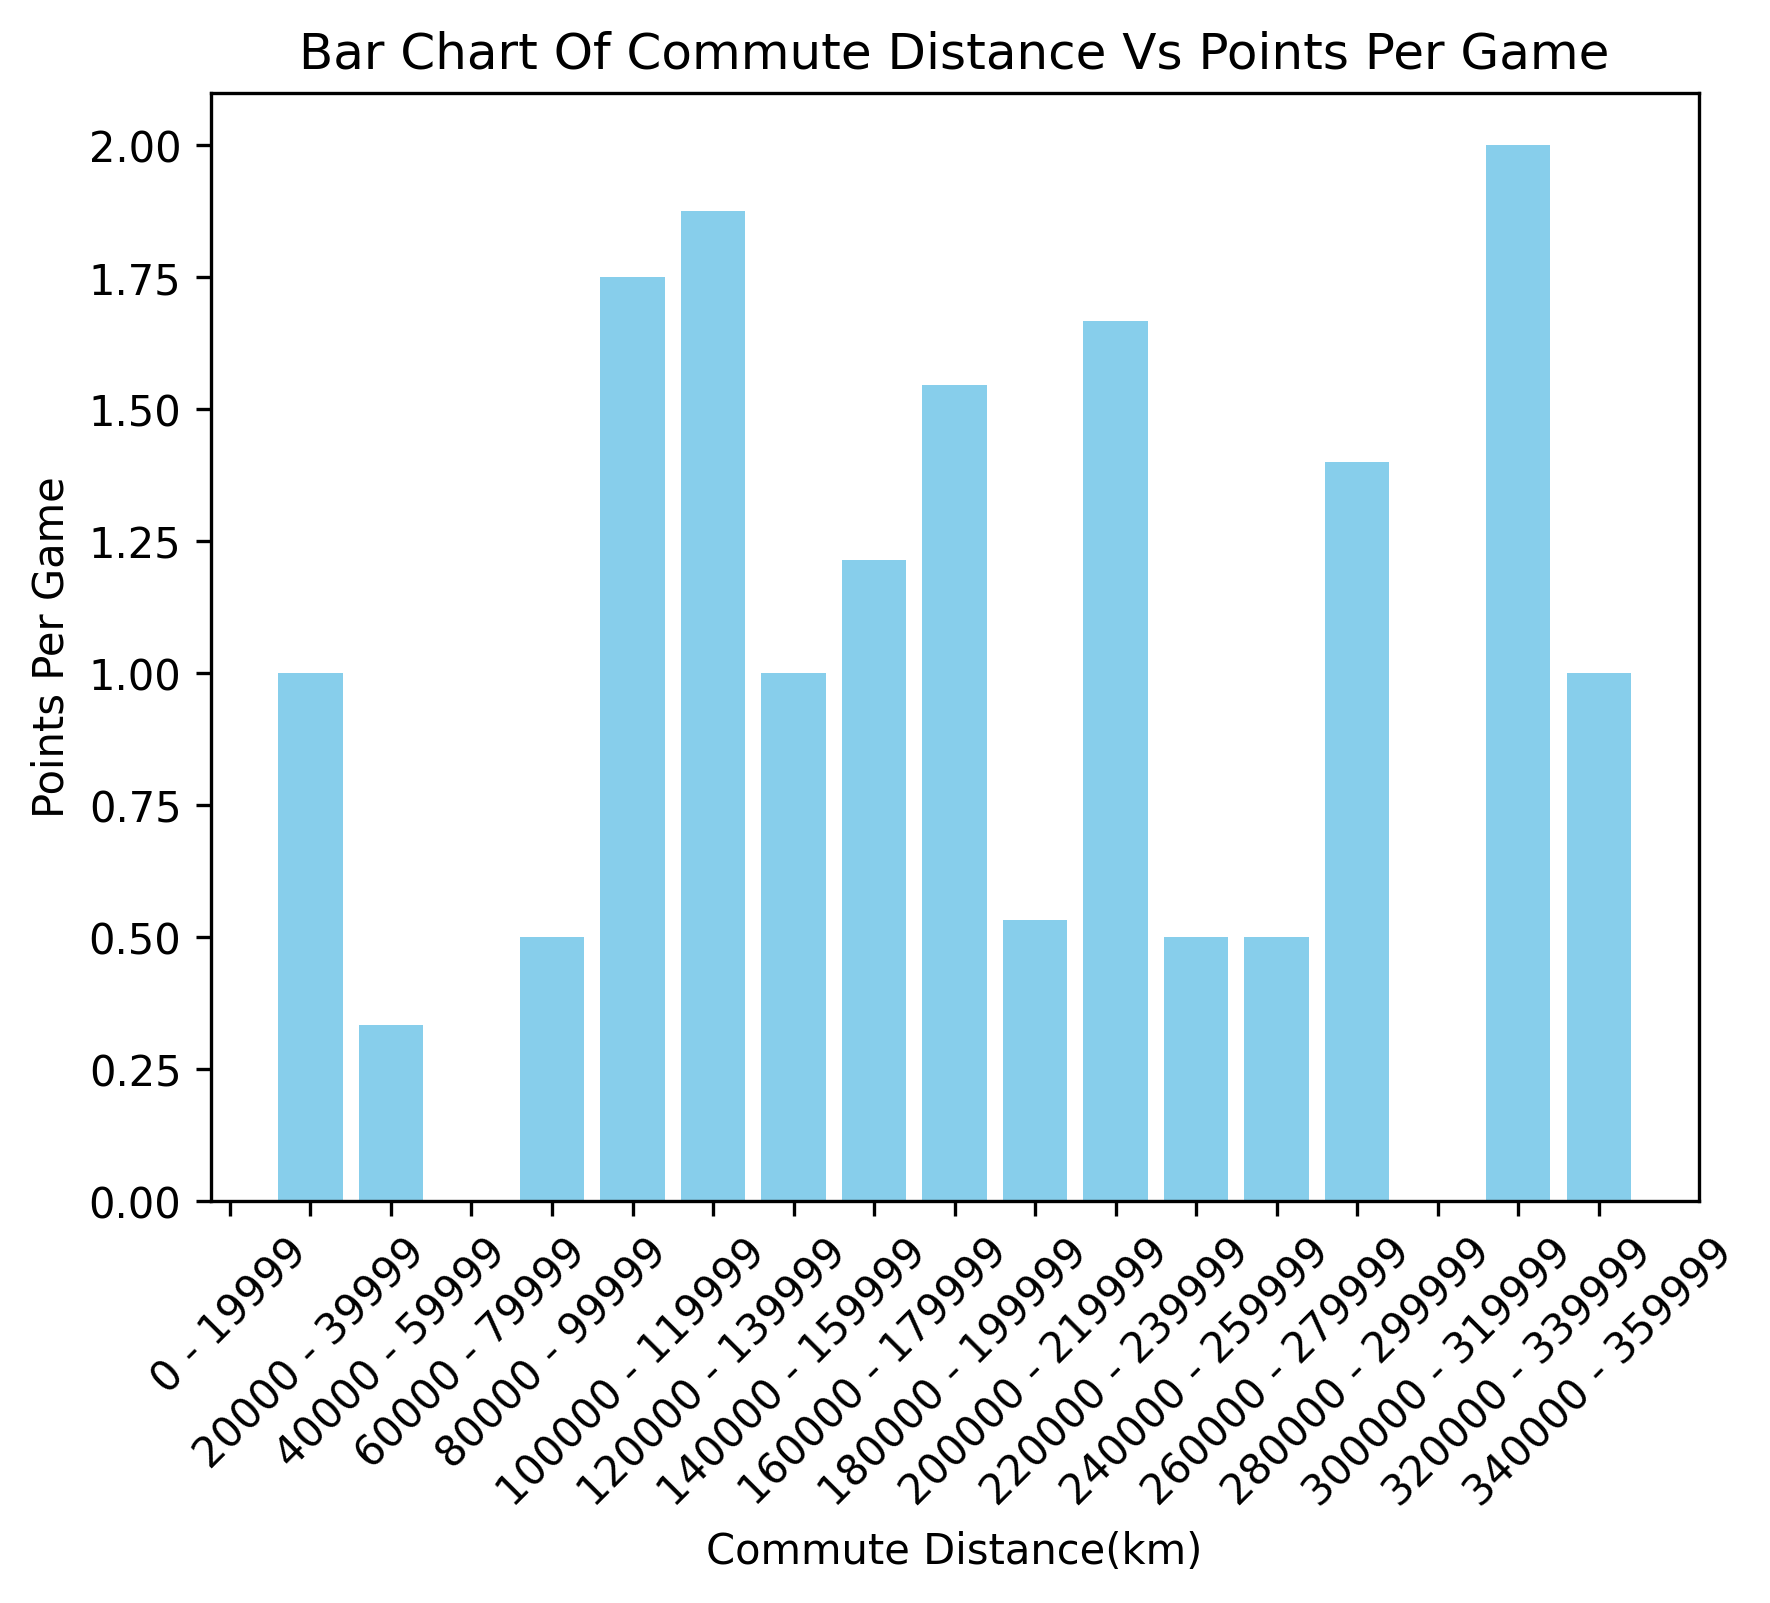
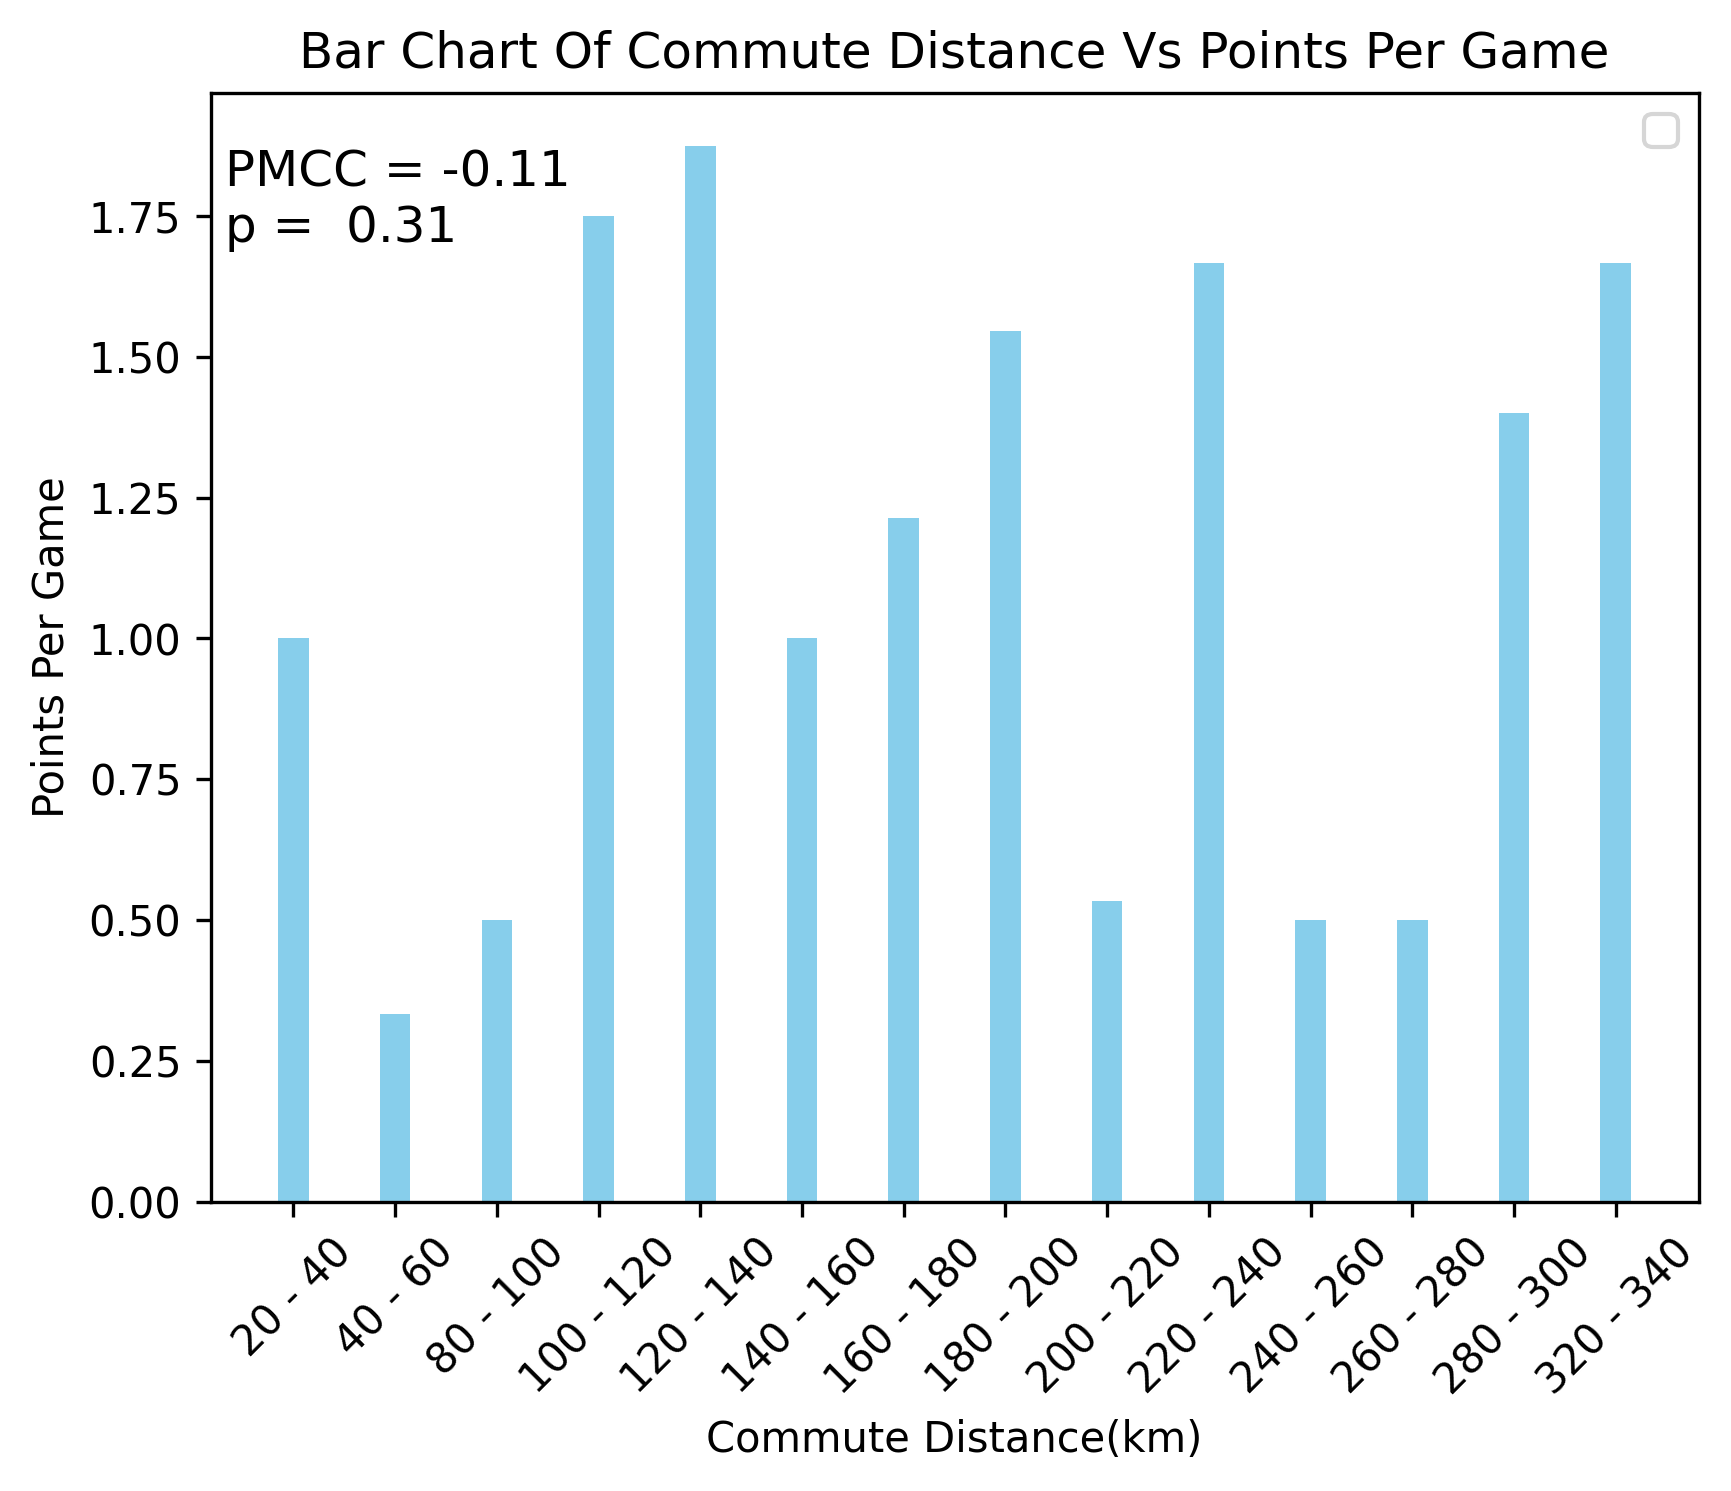
Made a better barchart

Changed region(s): [[0.0, 0.0, 0.9983, 0.9873], [0.9359, 0.0617, 0.9983, 0.1234]]

diff --git a/James/awayGameStats.py b/James/awayGameStats.py
@@ -3,6 +3,7 @@ import googlemaps as gmaps
 import matplotlib.pyplot as plt
 import numpy as np
 import pearsonr
+import math
 
 def addCommuteToDataFrame():
     # Initialize OpenRouteService client with your API key
@@ -362,21 +363,39 @@ def commuteAvgPoints(dframe):
                                                   if x == 'draw' else 0))
     
     #Makes a dictionary where the keys are a commute distance range and the values are
-    #the corresponding points per game. Then makes a dataframe out of it
+    #the corresponding points per game
     dic = {}
+    dic1 = {}
     for i in range(0, am['Commute'].max(), 20000):
         amState = am.query('@i <= Commute and @i + 20000 > Commute')
-        dic[f"{i} - {i + 19999}"] = amState['Points'].sum() / amState['Points'].count()
+        j = round(i / 1000)
+        dic[f"{j} - {j + 20}"] = amState['Points'].sum() / amState['Points'].count()
+        dic1[j + 10] = ""
 
-    amProcessed = pd.DataFrame({'Commute_Range' : dic.keys(), 'PPG' : dic.values()})
+    #Then makes a dataframe out of it
+    amProcessed = pd.DataFrame({'Commute_Range' : dic.keys(), 'Commute_Avg' : dic1.keys(), 'PPG' : dic.values()})
+    
+    # #With dic1 had to do something different to make a regression line for the bar chart
+    # amProcessedRegLine = pd.DataFrame({Commute_avg : dic1.keys(), 'PPG'})
+    amProcessed_clean = amProcessed.dropna()
 
     plt.figure()
-    plt.bar(amProcessed['Commute_Range'], amProcessed['PPG'], color = 'skyblue')
+    plt.bar(amProcessed_clean['Commute_Range'], amProcessed_clean['PPG'], color = 'skyblue', width = 0.3)
+
+    # m, b = np.polyfit(amProcessed_clean['Commute_Avg'], amProcessed_clean['PPG'], 1)
+    # plt.plot(amProcessed_clean['Commute_Avg'], m * amProcessed_clean['Commute_Avg'] + b, color = 'red', label = 'Regression Line', alpha = 1)
+
+    pmcc, p = pearsonr.pearsonr(am['Commute'], amProcessed_clean['PPG'])
+    fsize = 12
+
     plt.xticks(rotation = 45)
     plt.xlabel('Commute Distance(km)')
     plt.ylabel('Points Per Game')
+    plt.text(x = 0.01, y = 0.95, s = f"PMCC = {pmcc : .2f}", fontsize = fsize, ha = 'left', va = 'top', transform = plt.gca().transAxes)
+    plt.text(x = 0.01, y = 0.90, s = f"p = {p : .2f}", fontsize = fsize, ha = 'left', va = 'top', transform = plt.gca().transAxes)
     plt.title('Bar Chart of Commute distance vs points per game'.title())
-    plt.savefig("commute-ppg-bar.png", dpi=300, bbox_inches='tight')
+    plt.legend()
+    plt.savefig("commute-ppg-bar2.png", dpi=300, bbox_inches='tight')
     plt.show
 
 
